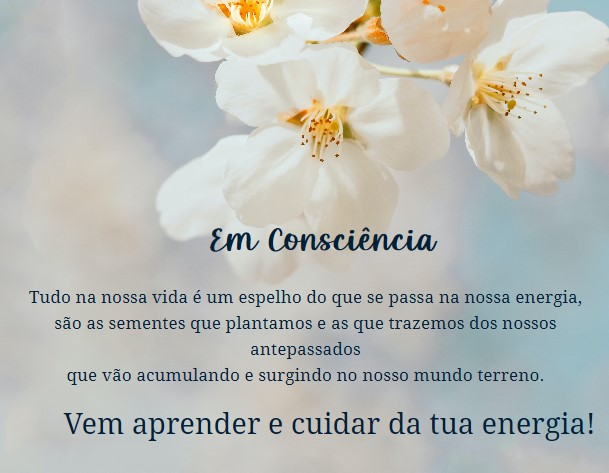
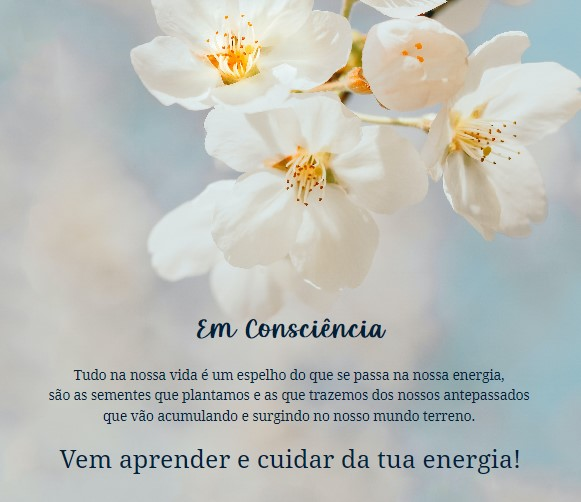
HeaderShort

diff --git a/css/styleLusaka.css b/css/styleLusaka.css
@@ -64,10 +64,23 @@ h1 {
     margin-top: 24px;
     font-family: 'Droid Serif Regular' !important;
     
-}
+}	
+	.header{
+		    background-image: url(../img/HeaderShort.jpg);
+    background-repeat: no-repeat;
+    background-size: 100%;
+    height: 87vw;
+	}
 }
 
 @media screen and (min-width: 600px) {
+	
+	.header{
+background-image: url(../img/Header.jpg);
+    background-repeat: no-repeat;
+    background-size: 100%;
+    height: 23vw;
+	}
 	.MobileWidth{
 		width:120%
 	}

diff --git a/Lusaka.html b/Lusaka.html
@@ -15,7 +15,7 @@
 
 
 <!-- Header -->
-<header class="w3-container" style="background-image: url(img/Header.jpg);background-repeat: no-repeat;background-size: 100%;height: 440px;">
+<header class="w3-container header">
 <!--<div class="w3-twothird">
 <div class="w3-left-align">
 <p class="w3-xlarge w3-text-white" style="font-family:Milky !important;"> Em Consciência</p>
